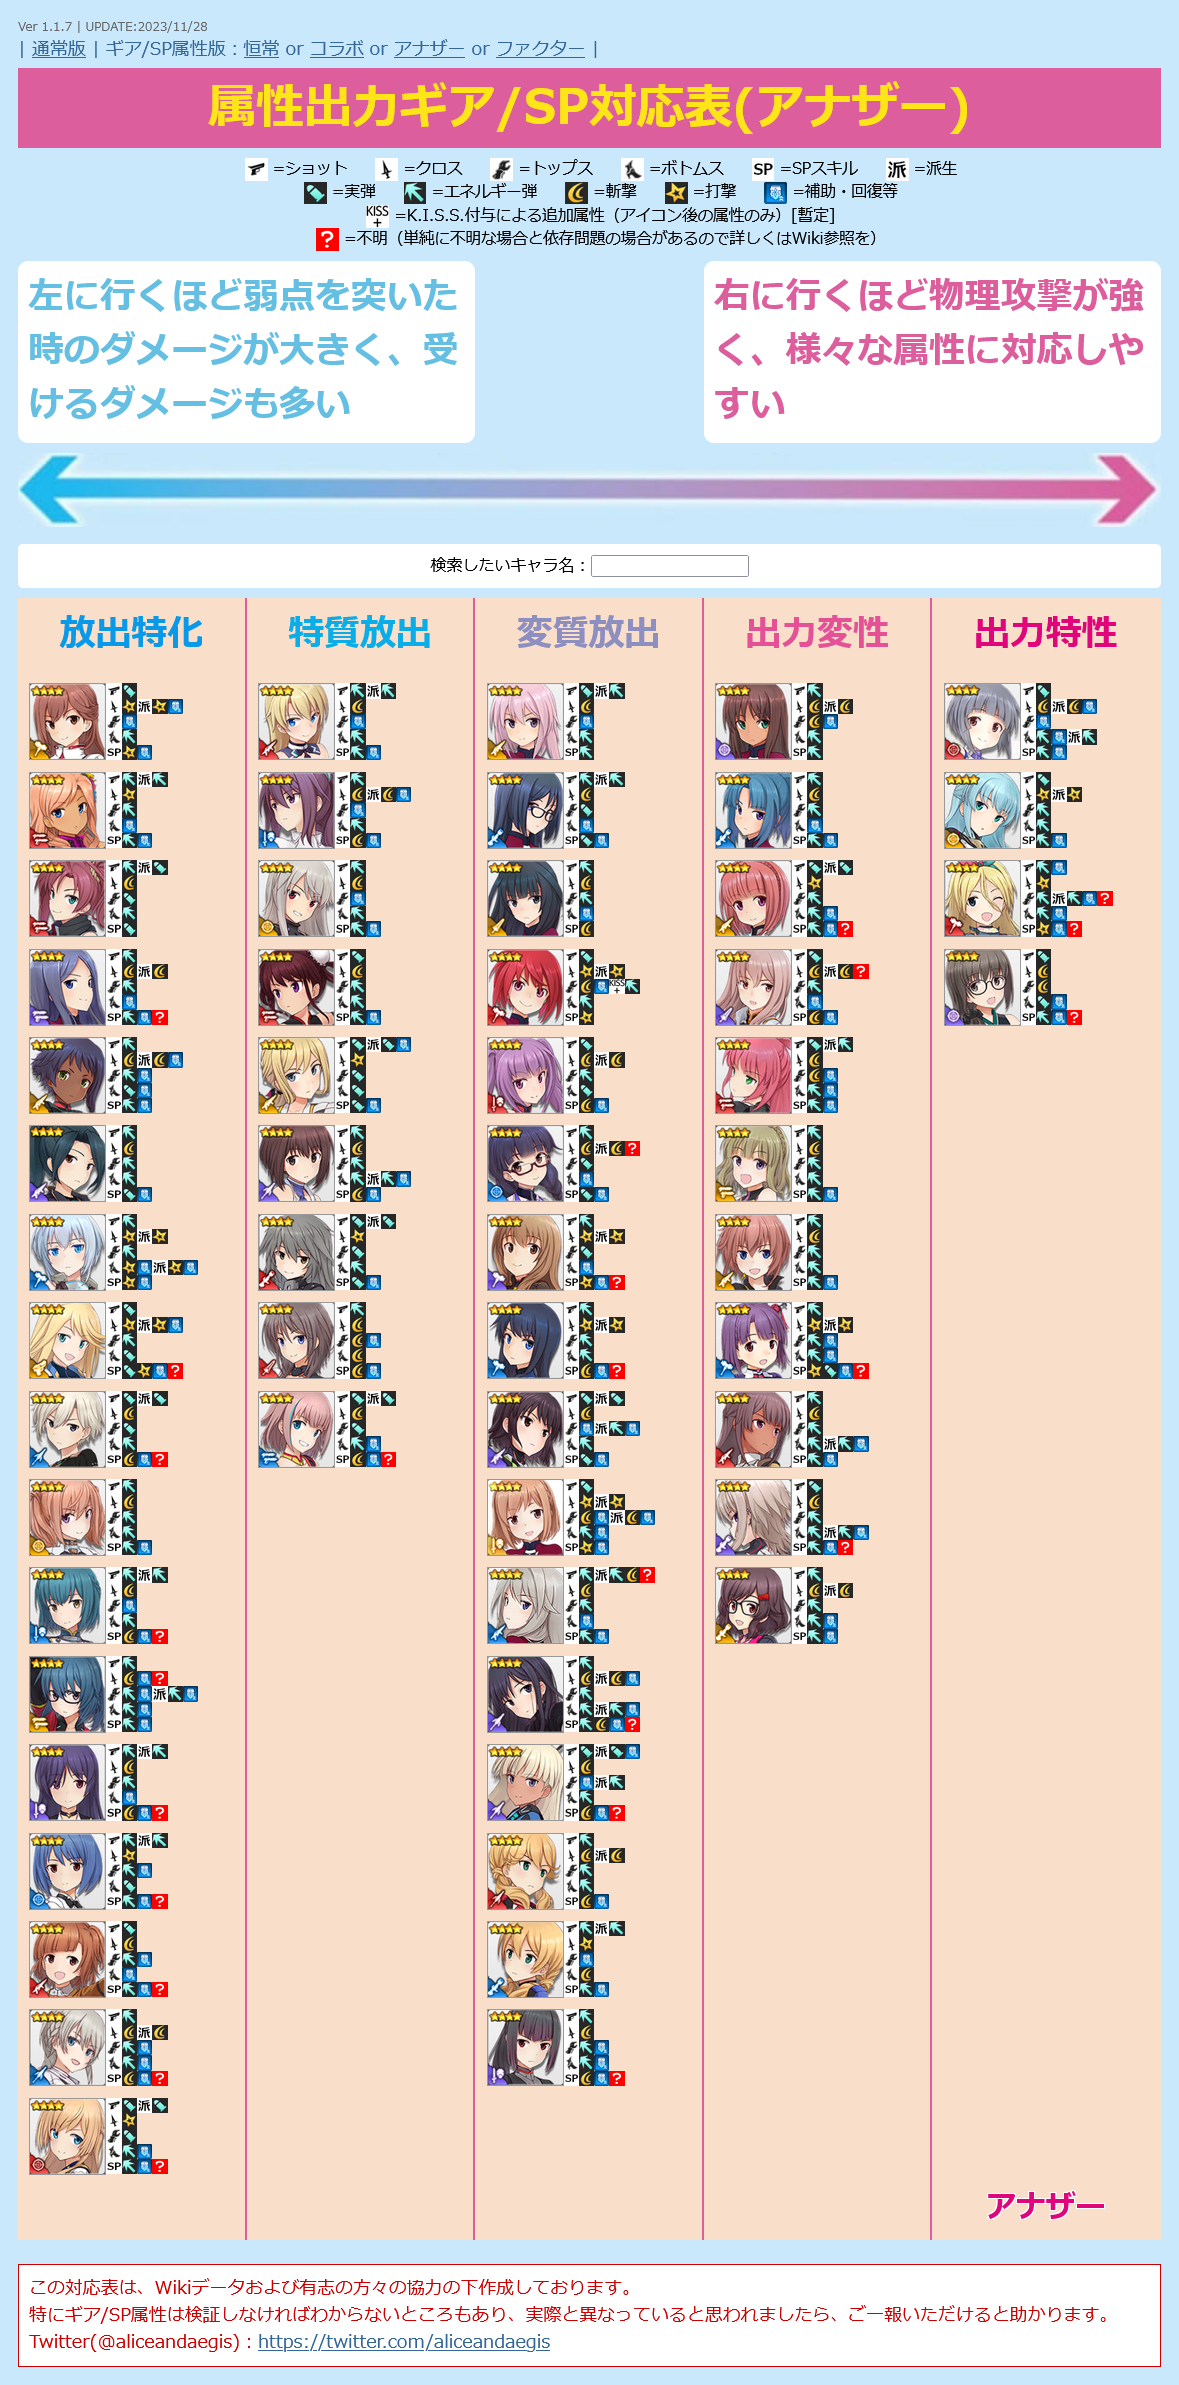
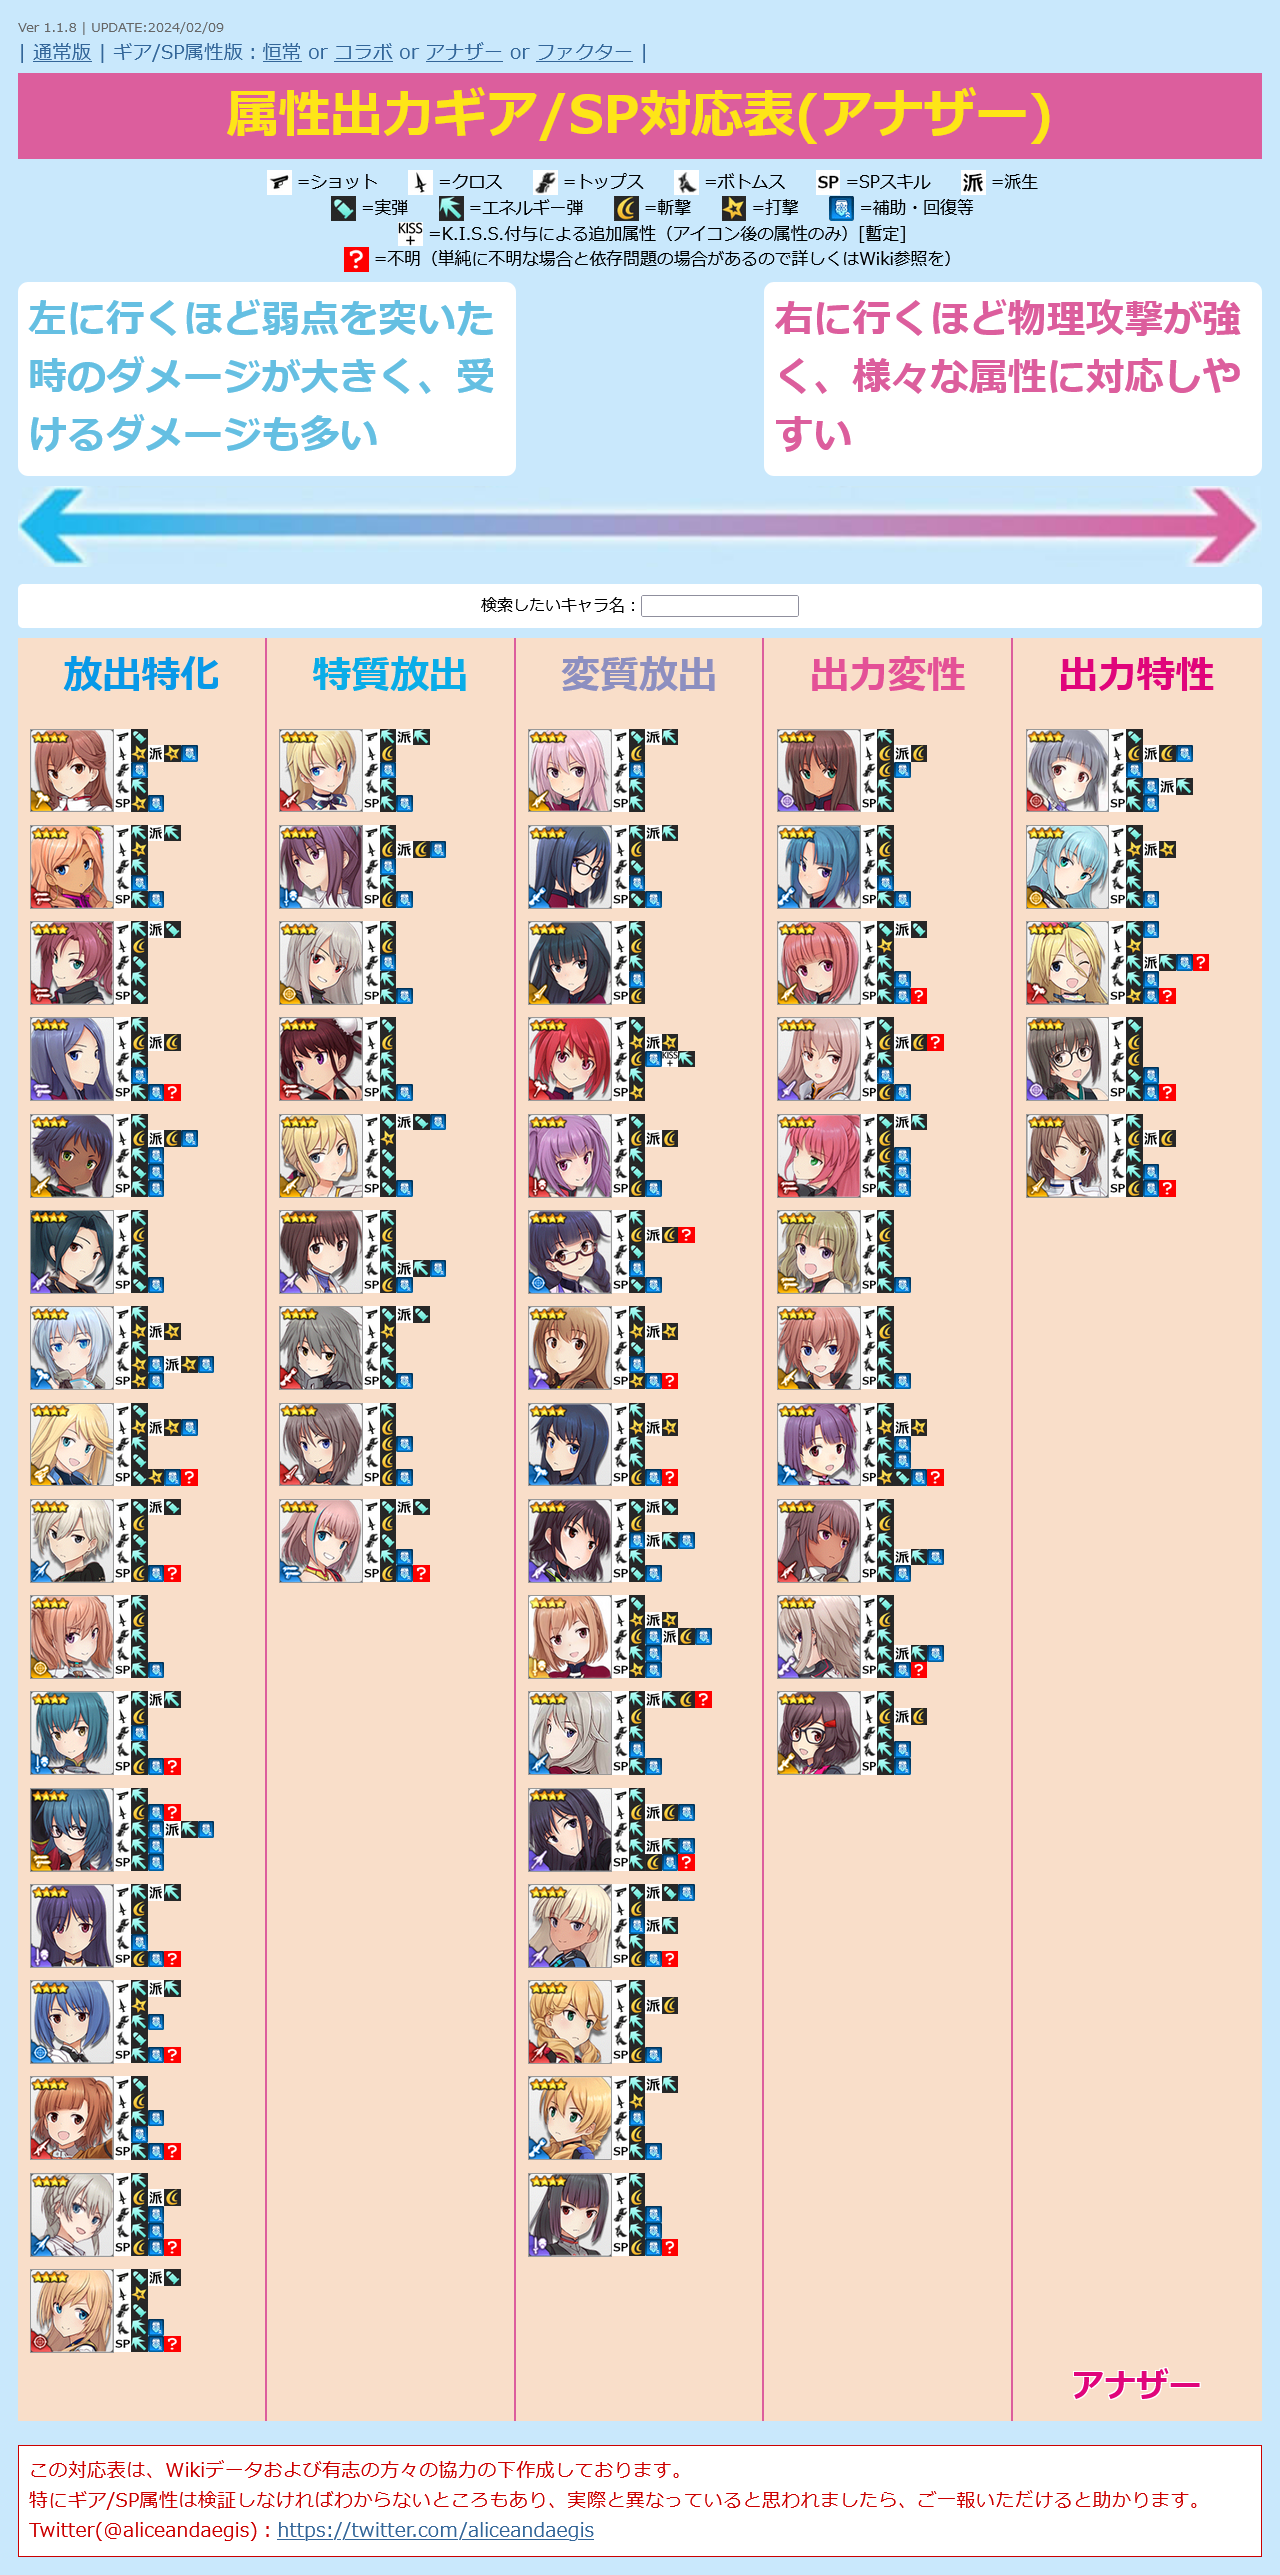
UPDATE charadata
・アナザー 尾長 晶乃 / 翼成を追加

diff --git a/alice.html b/alice.html
@@ -12,7 +12,7 @@
   <script>
 
 /* 更新情報 必要に応じて書き換えてください */
-  var version = "Ver 1.1.8 | UPDATE:2024/01/22";
+  var version = "Ver 1.1.8 | UPDATE:2024/02/09";
 
 
 /*
@@ -1934,13 +1934,27 @@
       "src": "normal-akino.png",
       "name": "尾長 晶乃",
       "equip1": "2",
-      "equip2": "3",
+      "equip2": "3/3",
       "equip3": "2",
       "equip4": "25",
       "sp": "2",
       "attr": "1",
       "link": "https://wikiwiki.jp/alicegear/%E5%B0%BE%E9%95%B7%E6%99%B6%E4%B9%83",
       "category": ""
+    },
+    {
+      "id": "58",
+      "type": "5",
+      "src": "another-akino.png",
+      "name": "尾長 晶乃 / 翼成",
+      "equip1": "2",
+      "equip2": "3/3",
+      "equip3": "2",
+      "equip4": "25",
+      "sp": "35?",
+      "attr": "1",
+      "link": "https://wikiwiki.jp/alicegear/%E5%B0%BE%E9%95%B7%E6%99%B6%E4%B9%83%E7%BF%BC%E6%88%90",
+      "category": "10"
     },
     {
       "id": "59",
@@ -2005,9 +2019,9 @@
       "name": "吾妻 京",
       "equip1": "2",
       "equip2": "3",
-      "equip3": "?",
+      "equip3": "3?",
       "equip4": "25",
-      "sp": "?",
+      "sp": "3?",
       "attr": "2",
       "link": "https://wikiwiki.jp/alicegear/%E5%90%BE%E5%A6%BB%E4%BA%AC",
       "category": ""
@@ -2020,7 +2034,7 @@
       "equip1": "2",
       "equip2": "3",
       "equip3": "25",
-      "equip4": "?",
+      "equip4": "5",
       "sp": "2",
       "attr": "4",
       "link": "https://wikiwiki.jp/alicegear/%E3%82%A2%E3%83%B3%E3%82%B8%E3%82%A7%E3%83%AA%E3%82%AB%E3%83%BB%E3%82%B0%E3%83%A9%E3%82%BA%E3%83%8E%E3%83%AF",
